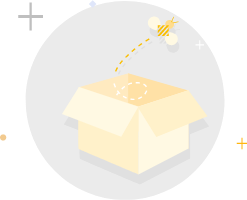
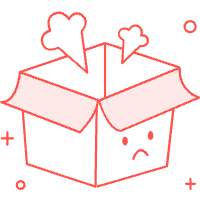
patch: improve image assets
Release Notes:
- 改善资源图片

Pull request: Patch: improve image assets
Release Notes:
- 改善资源图片

diff --git a/lib/app/modules/home/views/index_home_view.dart b/lib/app/modules/home/views/index_home_view.dart
@@ -410,13 +410,12 @@ class _IndexHomeViewState extends State<IndexHomeView>
                                   return Center(
                                     child: SingleChildScrollView(
                                       child: Column(
+                                        spacing: 12,
                                         children: [
                                           Image.asset(
                                             "assets/images/error.png",
-                                            width: Get.width * .24,
-                                          ),
-                                          const SizedBox(
-                                            height: 24,
+                                            width: 120,
+                                            height: 120,
                                           ),
                                           Zoom(
                                             child: CupertinoButton.filled(
@@ -435,12 +434,7 @@ class _IndexHomeViewState extends State<IndexHomeView>
                                               ),
                                             ),
                                           ),
-                                          const SizedBox(
-                                            height: 6,
-                                          ),
-                                          KErrorStack(
-                                            msg: errorMsg,
-                                          ),
+                                          KErrorStack(msg: errorMsg),
                                         ],
                                       ),
                                     ),
@@ -448,14 +442,21 @@ class _IndexHomeViewState extends State<IndexHomeView>
                                 }
                                 return Center(
                                   child: Column(
-                                    spacing: 24,
+                                    spacing: 12,
                                     mainAxisSize: MainAxisSize.min,
                                     children: [
                                       Image.asset(
                                         "assets/images/error.png",
-                                        width: Get.width * .24,
+                                        width: 120,
+                                        height: 120,
                                       ),
-                                      const Text("当前请求列表为空"),
+                                      Text("当前请求列表为空",
+                                          style: TextStyle(
+                                            color: (context.isDarkMode
+                                                    ? '#6f737a'
+                                                    : '#767a82')
+                                                .$color,
+                                          )),
                                     ],
                                   ),
                                 );

diff --git a/lib/app/widget/helper.dart b/lib/app/widget/helper.dart
@@ -3,14 +3,6 @@
 import 'package:flutter/cupertino.dart';
 import 'package:flutter/material.dart';
 
-const K_DEFAULT_IMAGE = "assets/images/image_faild.png";
-
-Widget kCoverImage = Image.asset(
-  K_DEFAULT_IMAGE,
-  width: double.infinity,
-  fit: BoxFit.cover,
-);
-
 Widget kErrorImage = ClipRRect(
   borderRadius: BorderRadius.circular(8.0),
   child: const DecoratedBox(

diff --git a/lib/app/widget/k_error_stack.dart b/lib/app/widget/k_error_stack.dart
@@ -1,5 +1,4 @@
 import 'package:flutter/material.dart';
-import 'package:get/get.dart';
 
 /// 错误栈最大行数
 const int kErrorStackMaxLine = 12;
@@ -25,7 +24,7 @@ class KErrorStack extends StatelessWidget {
       color: Colors.transparent,
       shadowColor: Colors.transparent,
       child: Padding(
-        padding: EdgeInsets.all(Get.width * .05),
+        padding: EdgeInsets.all(12),
         child: Text(
           msg,
           maxLines: _maxLine,

diff --git a/lib/app/modules/home/views/search.dart b/lib/app/modules/home/views/search.dart
@@ -377,6 +377,7 @@ class _SearchV2State extends State<SearchV2> with AfterLayoutMixin {
     String textColor = context.isDarkMode ? '#6f737a' : '#767a82';
     return Center(
       child: Column(
+        spacing: 12,
         mainAxisSize: MainAxisSize.min,
         children: [
           Image.asset("assets/images/error.png", width: 120, height: 120),